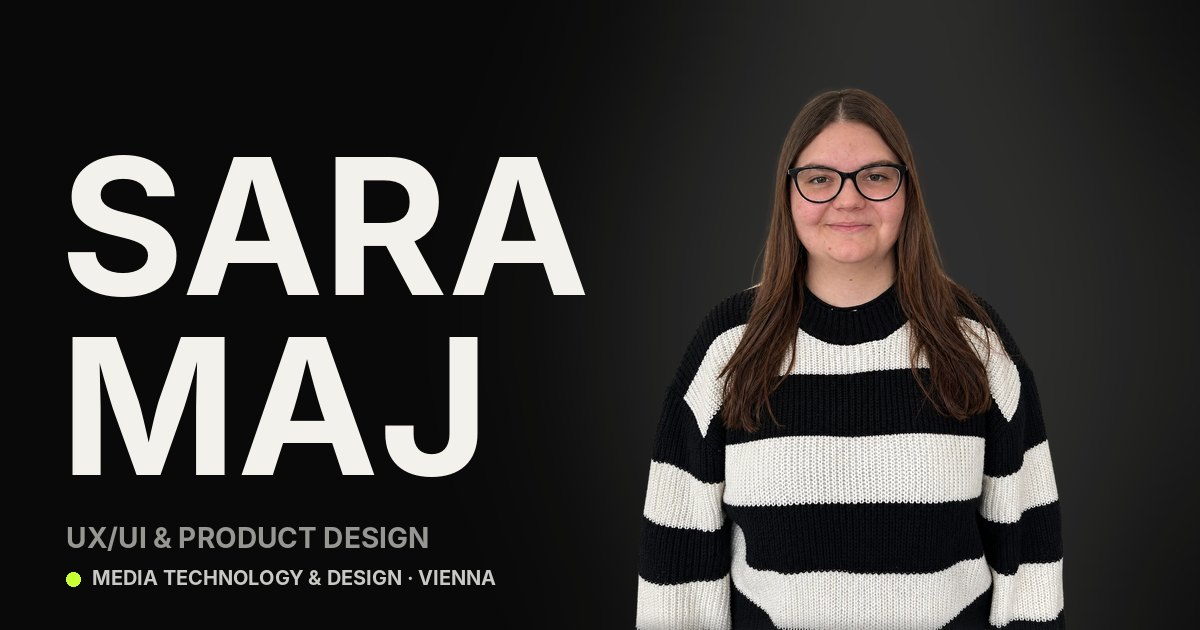
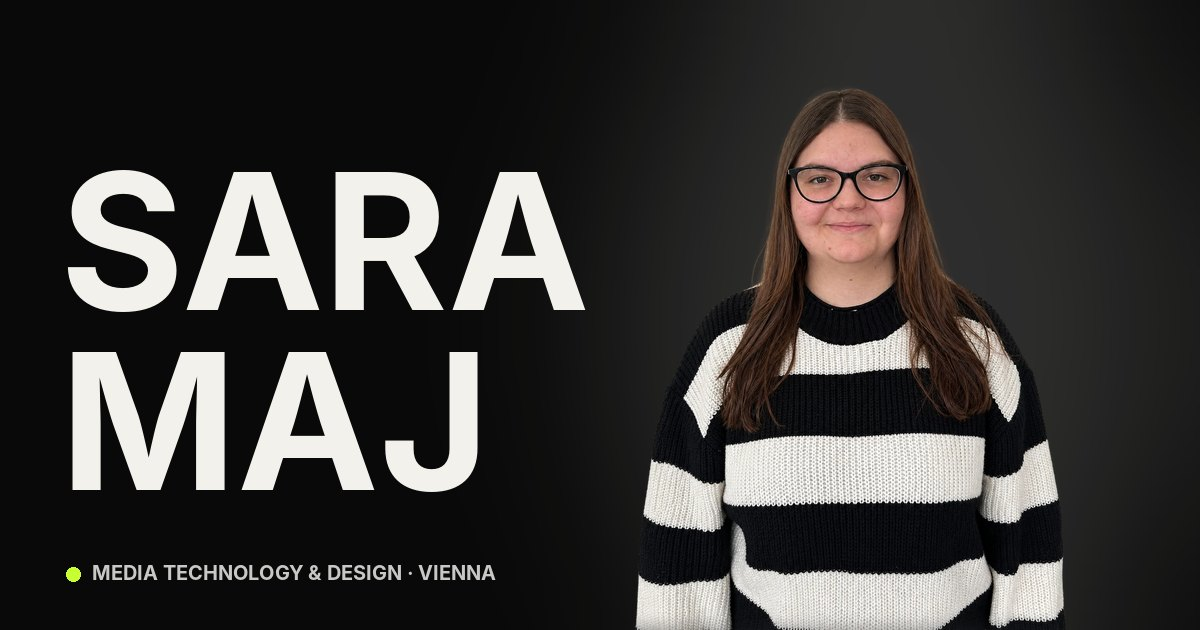
Ryanair: remove prototype mentions; share preview without tagline
Claude-Session: https://claude.ai/code/session_01MGpawRiiwHTkNBdGgmQyvH

Changed region(s): [[0.0308, 0.2413, 0.4933, 0.7841], [0.0308, 0.8143, 0.4317, 0.9349]]

diff --git a/app/work/ryanair/page.tsx b/app/work/ryanair/page.tsx
@@ -108,7 +108,6 @@ export default function RyanairProject() {
             <span>Design System</span>
             <span>User Flow</span>
             <span>Sketching</span>
-            <span>Prototyping</span>
             <span>Figma</span>
           </div>
         </div>
@@ -125,8 +124,7 @@ export default function RyanairProject() {
             starting point. Its desktop screens for homepage, search
             results and baggage selection were developed further and
             adapted to different screen sizes, navigation patterns
-            and touch interactions. The result is also a clickable
-            prototype in Figma.
+            and touch interactions.
           </p>
         </div>
 
@@ -214,7 +212,7 @@ export default function RyanairProject() {
             The booking journey mapped in five steps, from the
             homepage to baggage selection. Editing the search,
             personal details, payment and confirmation are not part
-            of the prototype.
+            of the flow.
           </p>
         </div>
 

diff --git a/app/layout.tsx b/app/layout.tsx
@@ -18,7 +18,7 @@ export const metadata: Metadata = {
   description:
     "Portfolio of Sara Maj, Media Technology & Design student in Austria. UX/UI design, branding, motion and development.",
   openGraph: {
-    title: "Sara Maj - UX/UI & Product Design",
+    title: "Sara Maj - Portfolio",
     description:
       "Portfolio of Sara Maj, Media Technology & Design student in Vienna.",
     type: "website",
@@ -26,7 +26,7 @@ export const metadata: Metadata = {
   },
   twitter: {
     card: "summary_large_image",
-    title: "Sara Maj - UX/UI & Product Design",
+    title: "Sara Maj - Portfolio",
   },
 };
 
